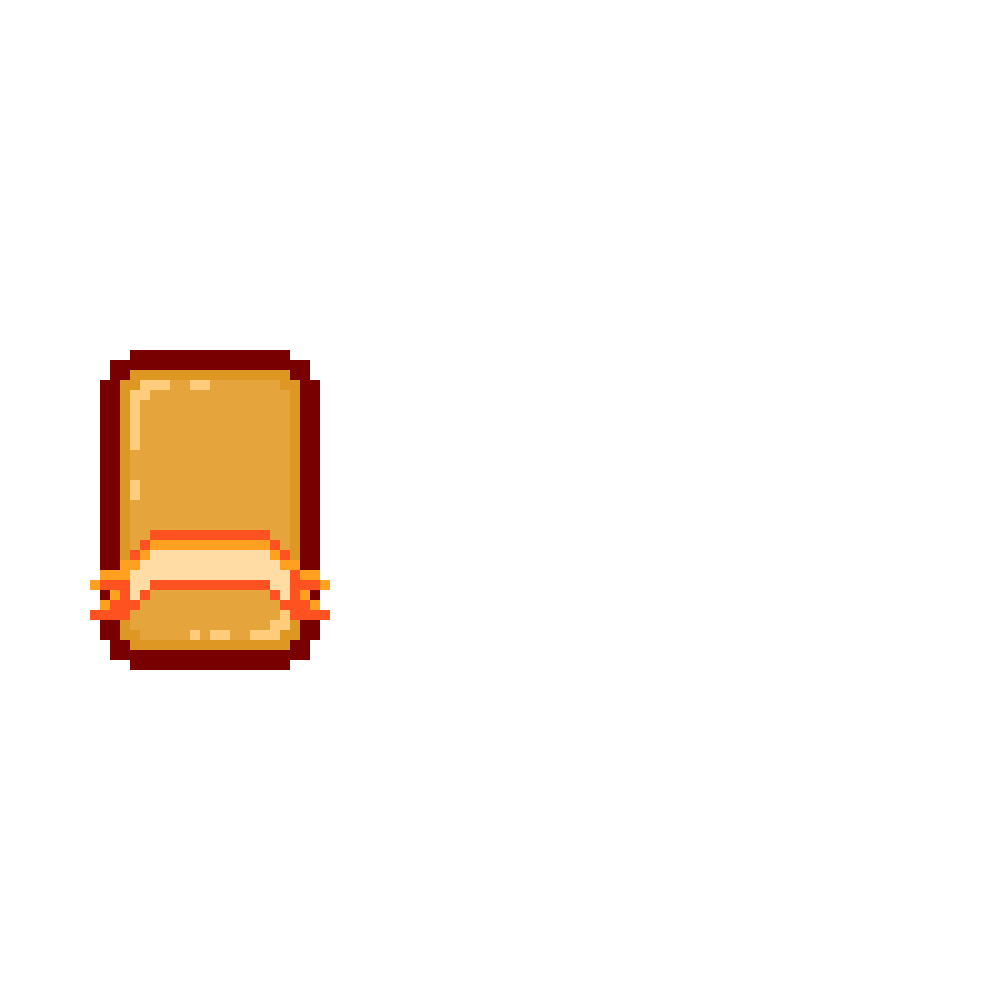
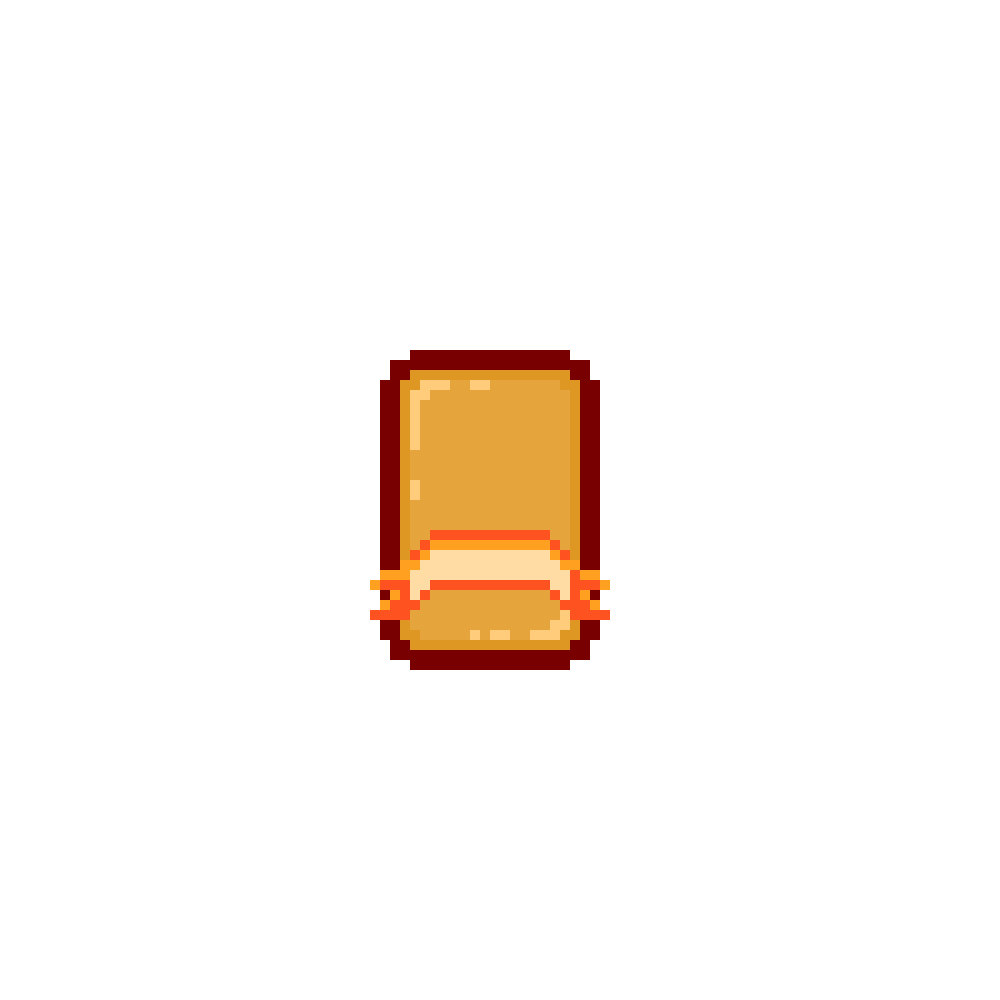
added assets and logic for collision

Changed region(s): [[0.372, 0.341, 0.62, 0.682], [0.093, 0.341, 0.341, 0.682]]

diff --git a/game.c b/game.c
@@ -9,7 +9,11 @@ CP_Image player_closed = NULL;
 CP_Image player_opened = NULL;
 CP_Image dumpling_closed = NULL;
 CP_Image dumpling_opened = NULL;
+CP_Image boss_closed = NULL;
+CP_Image boss_opened = NULL;
+CP_Image fireball = NULL;
 extern CP_Image background;
+int fireball_x = 300;
 
 void Game_Init(void)
 {
@@ -17,6 +21,9 @@ void Game_Init(void)
     player_opened = CP_Image_Load("./Assets/player-open.png");
     dumpling_closed = CP_Image_Load("./Assets/dumpling-closed.png");
     dumpling_opened = CP_Image_Load("./Assets/dumpling-open.png");
+    boss_closed = CP_Image_Load("./Assets/boss-closed.png");
+    boss_opened = CP_Image_Load("./Assets/boss-open.png");
+    fireball = CP_Image_Load("./Assets/fireball.png");
 }
 
 void Game_Update(void)
@@ -43,13 +50,26 @@ void Game_Update(void)
     CP_Settings_Fill(CP_Color_Create(0, 0, 0, 100));
     CP_Graphics_DrawEllipse(PLAYER_X_AXIS + 25, PLAYER_Y_AXIS + 90, PLAYER_WIDTH, 20.0f);
 
-    HealthBar(darkGreen, 230, PLAYER_Y_AXIS - PLAYER_HEIGHT + 50, CalculateCurrentHP(767, 0), CalculateCurrentMaxHP(0));
-    CP_Image_Draw(player_closed, PLAYER_X_AXIS, PLAYER_Y_AXIS, PLAYER_WIDTH, PLAYER_HEIGHT, 255);
+    //base health should be current player health
+    HealthBar(darkGreen, 230, PLAYER_Y_AXIS - PLAYER_HEIGHT + 50, CalculateCurrentHP(BASE_HEALTH, 0), CalculateCurrentMaxHP(0));
+
+    bool fireballHitEnemy = AreCirclesIntersecting(fireball_x, PLAYER_Y_AXIS, 90 / 2, ENEMY_X_AXIS, ENEMY_Y_AXIS, PLAYER_WIDTH / 2);
+
+    if (!fireballHitEnemy) {
+        fireball_x += 10;
+        CP_Image_Draw(fireball, fireball_x, PLAYER_Y_AXIS, 90, 90, 255);
+        CP_Image_Draw(player_opened, PLAYER_X_AXIS, PLAYER_Y_AXIS, PLAYER_WIDTH, PLAYER_HEIGHT, 255);
+        HealthBar(darkRed, 1250, ENEMY_Y_AXIS - PLAYER_HEIGHT + 120, CalculateCurrentHP(BASE_HEALTH, 0), CalculateCurrentMaxHP(0));
+    } else {
+        CP_Image_Draw(player_closed, PLAYER_X_AXIS, PLAYER_Y_AXIS, PLAYER_WIDTH, PLAYER_HEIGHT, 255);
+        //base health should be current enemy health, and base attack should be current enemy attack
+        HealthBar(darkRed, 1250, ENEMY_Y_AXIS - PLAYER_HEIGHT + 120, CalculateCurrentHP(BASE_HEALTH, BASE_ATTACK), CalculateCurrentMaxHP(0));
+    }
 
     CP_Settings_Fill(CP_Color_Create(0, 0, 0, 100));
     CP_Graphics_DrawEllipse(ENEMY_X_AXIS + 25, ENEMY_Y_AXIS + 90, PLAYER_WIDTH, 20.0f);
 
-    HealthBar(darkRed, 1250, ENEMY_Y_AXIS - PLAYER_HEIGHT + 120, CalculateCurrentHP(123, 0), CalculateCurrentMaxHP(0));
+    
     CP_Image_Draw(dumpling_closed, ENEMY_X_AXIS, ENEMY_Y_AXIS, PLAYER_WIDTH, PLAYER_HEIGHT, 255);
 }
 

diff --git a/utils.h b/utils.h
@@ -1,4 +1,6 @@
 #pragma once
+#include <stdbool.h>
+
 int IsAreaClicked(float area_center_x, float area_center_y, float area_width, float area_height, float click_x, float click_y);
 void DrawRectangle(CP_Color colour, float x, float y, float width, float height, float cornerRadius);
 double CalculateCurrentAttack(double increment_percentage);
@@ -14,3 +16,5 @@ void SkillUpgradeButton(
 );
 
 void HealthBar(CP_Color current_colour, float x, float y, float current_hp, float max_hp);
+
+bool AreCirclesIntersecting(float c1_x, float c1_y, float r1, float c2_x, float c2_y, float r2);

diff --git a/utils.c b/utils.c
@@ -96,3 +96,10 @@ void HealthBar(CP_Color current_colour, float x, float y, float current_hp, floa
 	DrawRectangle(CP_Color_Create(100, 100, 100, 255), x, y, 100, 20, 0);
 	if (current_hp > 0) DrawRectangle(current_colour, x, y, (current_hp/max_hp)*100, 20, 0);
 }
+
+bool AreCirclesIntersecting(float c1_x, float c1_y, float r1, float c2_x, float c2_y, float r2)
+{
+	double distance_squared = (((c1_x - c2_x) * (c1_x - c2_x)) + ((c1_y - c2_y) * (c1_y - c2_y)));
+	double diameter_squared = (r1 + r2) * (r1 + r2);
+	return distance_squared <= diameter_squared;
+}
